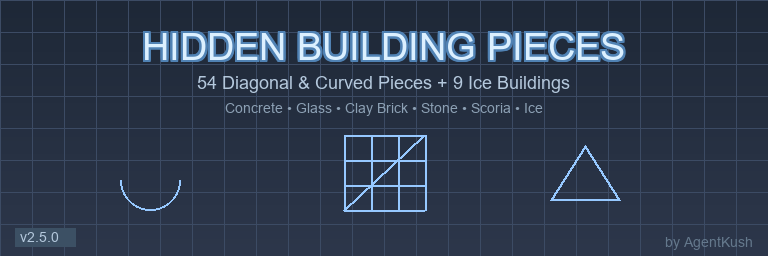
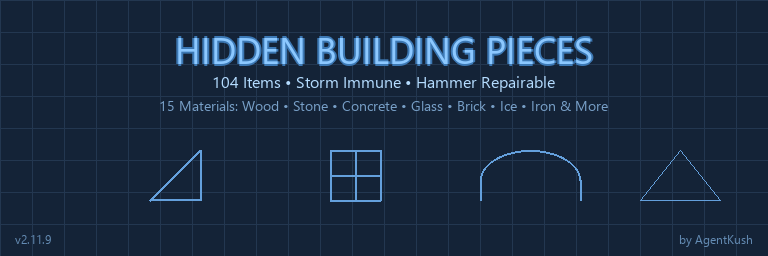
update

diff --git a/Hidden_Building_Pieces/README.md b/Hidden_Building_Pieces/README.md
@@ -1,6 +1,6 @@
 # 🏗️ Hidden Building Pieces
 
-Unlocks **104 hidden building items** including diagonal/curved pieces, frames, corner stairs, half pieces, and roof peak pieces for Icarus.
+Unlocks **104 hidden building items** including diagonal/curved pieces, frames, corner stairs, half pieces, and roof peak pieces for Icarus. All pieces are **storm immune** and **hammer repairable**.
 
 ## Features
 
@@ -70,6 +70,13 @@ Unlocks **104 hidden building items** including diagonal/curved pieces, frames, 
 - ✅ Compatible with all DLCs
 
 ## Changelog
+
+### v2.11.9
+- **STORM IMMUNITY:** Added 100% wind damage resistance to all 15 building types
+  - All mod building pieces now take zero damage from storms
+  - Affects: Thatch, Wood, Stone, Concrete, Aluminium, Glass, Scoria, Clay_Brick, Scoria_Brick, Ice, Limestone, Stone_Brick, Sandworm, Glass_Tempered, Beeswax_Wood
+- **FIX:** Corrected D_Durable section path format for proper mod loading
+- **FIX:** Moved EndOfMod marker to correct position (was blocking D_BuildingSkins and D_Durable)
 
 ### v2.11.8
 - **REPAIR FIX:** Fixed 3 items referencing non-existent durability types

diff --git a/README.md b/README.md
@@ -133,9 +133,9 @@ Prevents food and volatile items from decaying. Your hard-earned meals stay fres
 ---
 
 ### Hidden Building Pieces
-**Version 2.11.4** • 104 craftable items
+**Version 2.11.9** • 104 craftable items
 
-Unlocks **104 hidden building items** including diagonal/curved pieces, frames, corner stairs, half pieces, and roof peak connectors.
+Unlocks **104 hidden building items** including diagonal/curved pieces, frames, corner stairs, half pieces, and roof peak connectors. **Storm immune** and **hammer repairable**.
 
 **Features:**
 - Diagonal & Curved pieces for 9 materials